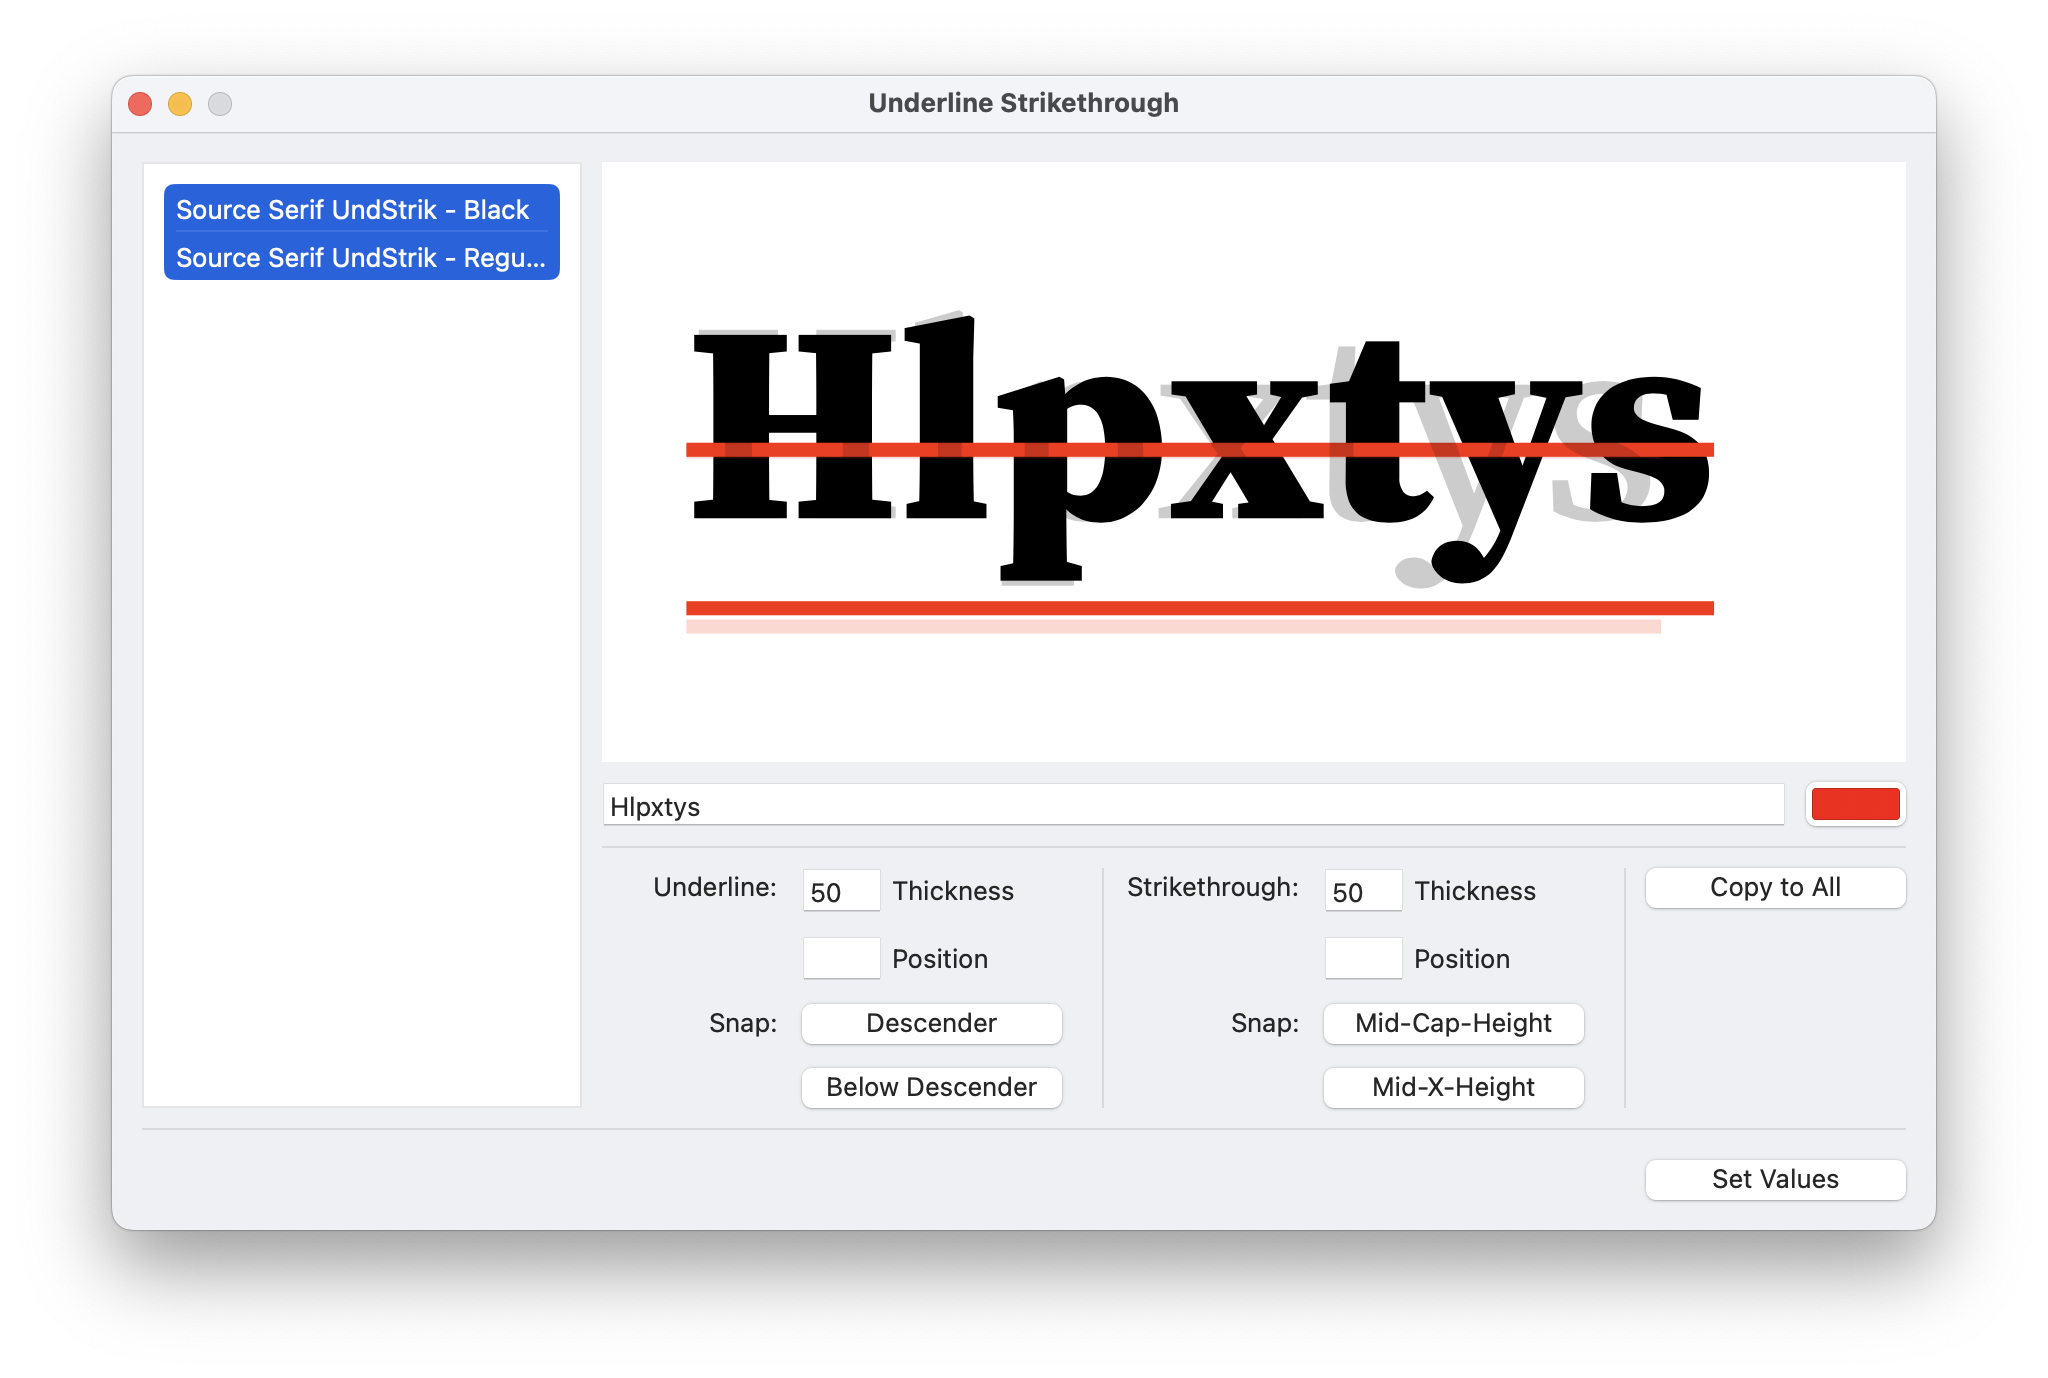
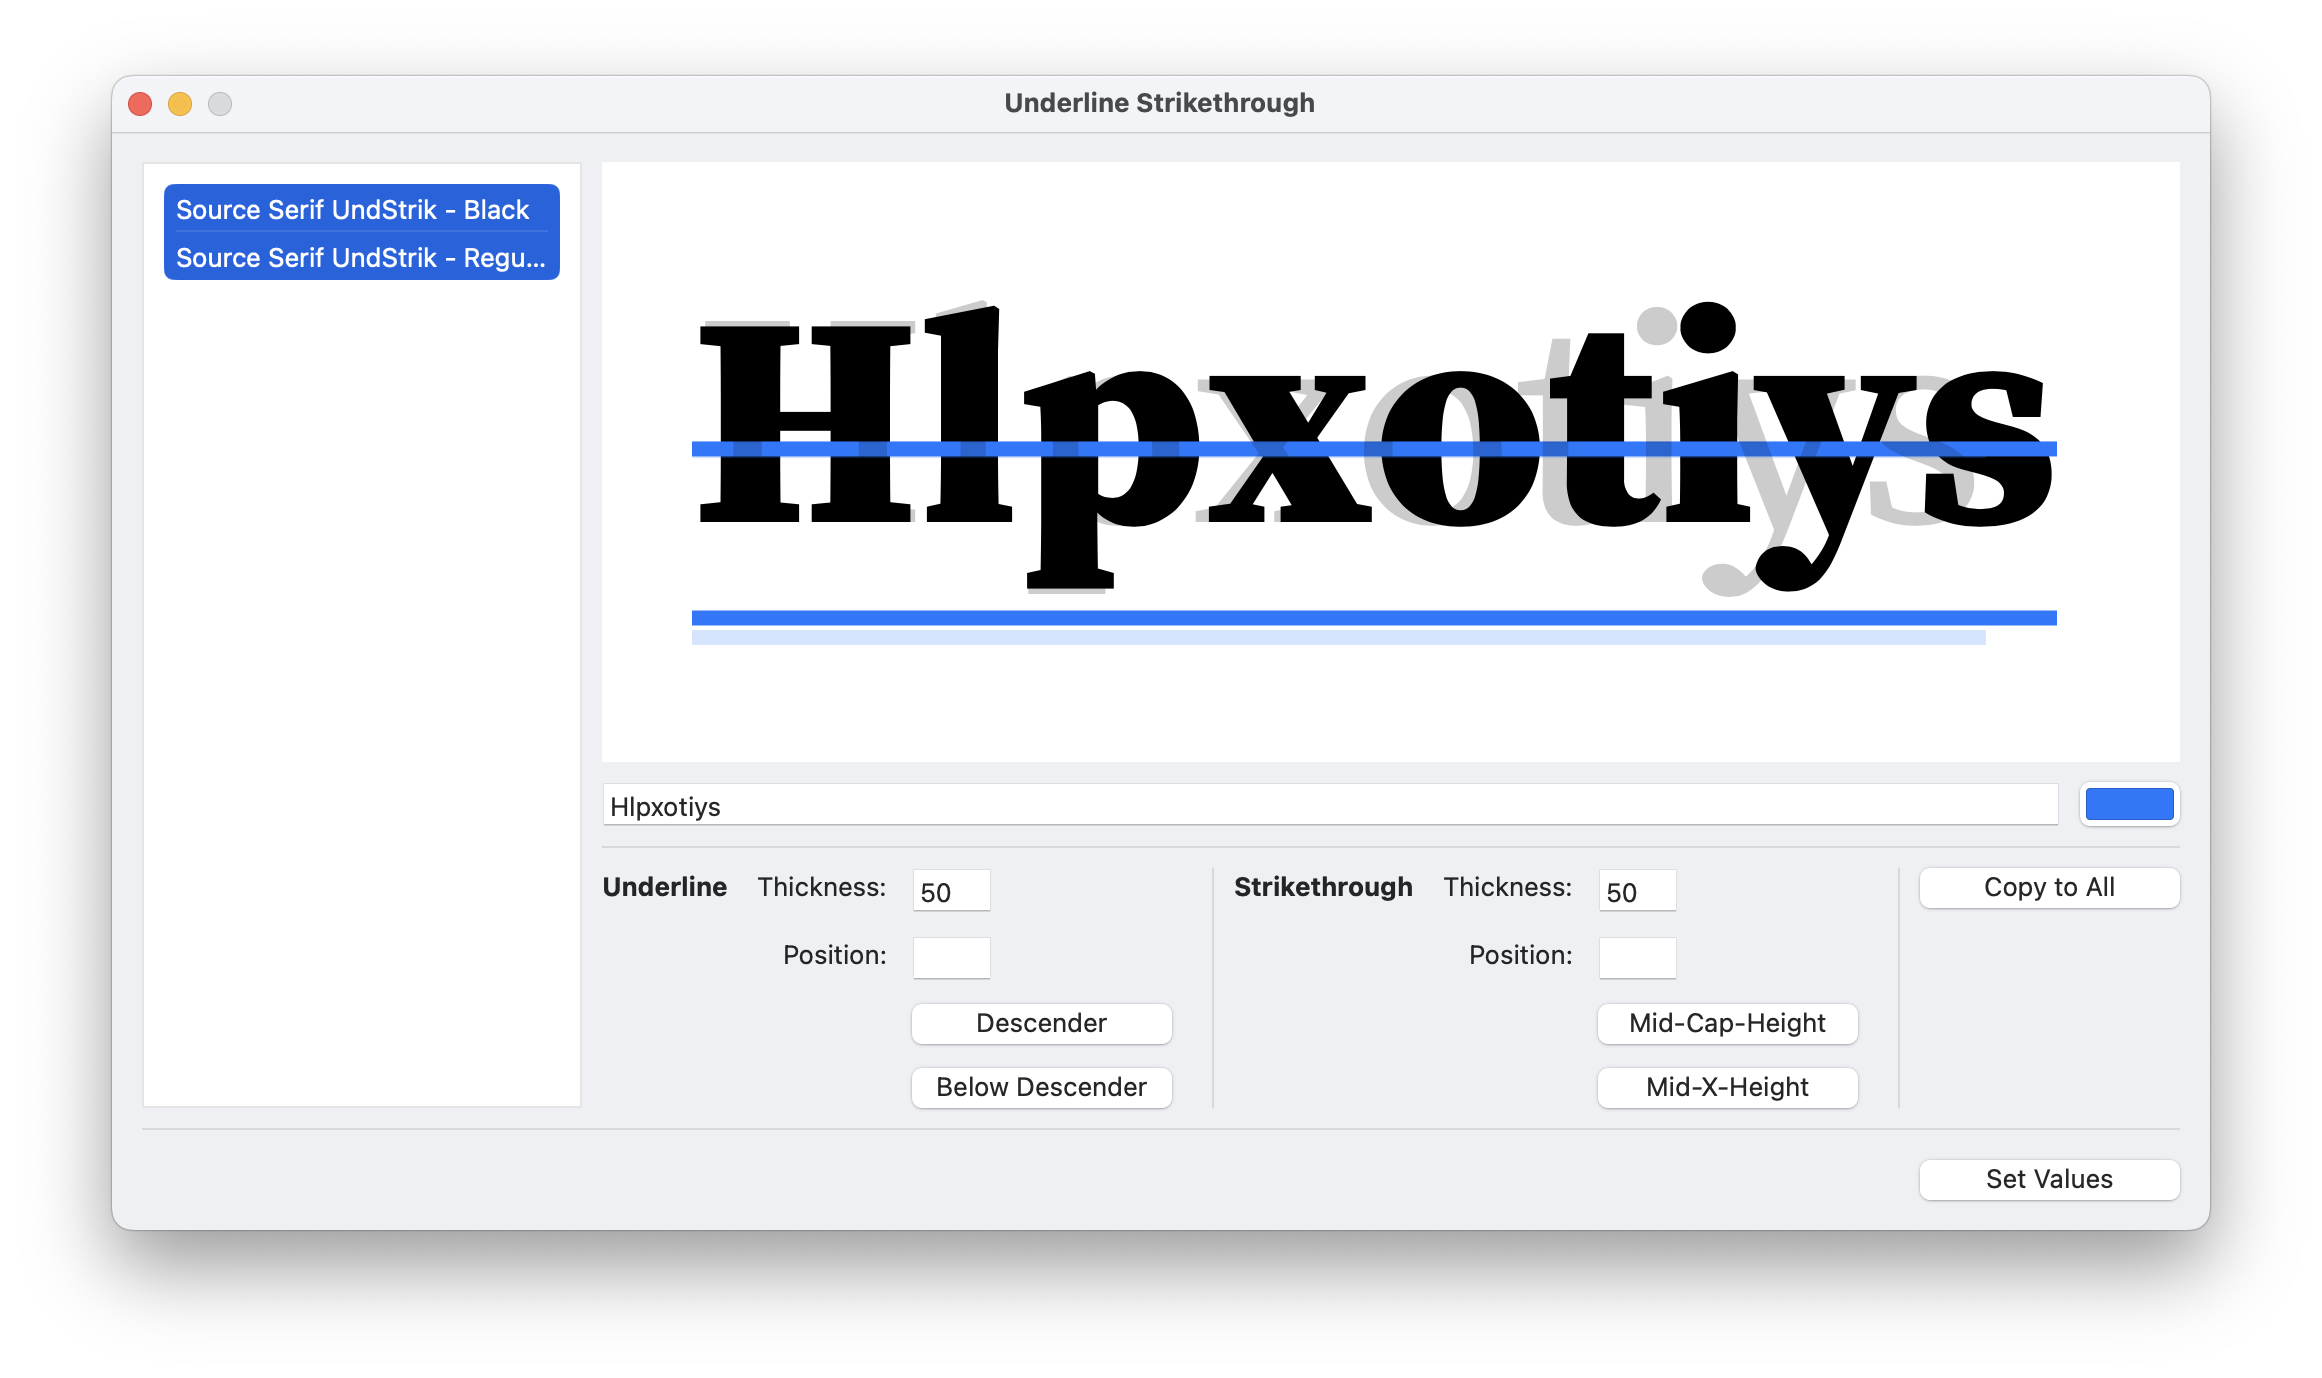
Update UI

diff --git a/Underline Strikethrough.roboFontExt/lib/Underline StrikeThrough.py b/Underline Strikethrough.roboFontExt/lib/Underline StrikeThrough.py
@@ -35,23 +35,31 @@ class UnderlineStrikethrough(Subscriber, ezui.WindowController):
         
         >> * HorizontalStack
         
+        >>> Underline:
         >>> * TwoColumnForm       @form1
-        >>>> : Underline:
+        
+        >>>> : Thickness:
         >>>> [_ _]                @ulThicknessText
+        
+        >>>> : Position:
         >>>> [_ _]                @ulPosText
         
-        >>>> : Snap:
+        >>>> : 
         >>>> (Descender)          @ulDescButton
         >>>> (Below Descender)    @ulBelowDescButton
         
         >>> ---
         
+        >>> Strikethrough:
         >>> * TwoColumnForm       @form2
-        >>>> : Strikethrough:
+        
+        >>>> : Thickness:
         >>>> [_ _]                @stThicknessText
+        
+        >>>> : Position:
         >>>> [_ _]                @stPosText
         
-        >>>> : Snap:
+        >>>> : 
         >>>> (Mid-Cap-Height)     @stMidCapButton
         >>>> (Mid-X-Height)       @stMidXButton
         
@@ -68,7 +76,7 @@ class UnderlineStrikethrough(Subscriber, ezui.WindowController):
         (Set Values)              @setAllButton
         """
         
-        titleWidth = 88
+        titleWidth = 75
         itemWidth = 140
         fieldWidth = 40
         buttonWidth = 130
@@ -100,22 +108,18 @@ class UnderlineStrikethrough(Subscriber, ezui.WindowController):
             ulThicknessText=dict(
                 valueType='integer',
                 valueWidth=fieldWidth,
-                trailingText="Thickness",
             ),
             ulPosText=dict(
                 valueType='integer',
                 valueWidth=fieldWidth,
-                trailingText="Position",
             ),
             stThicknessText=dict(
                 valueType='integer',
                 valueWidth=fieldWidth,
-                trailingText="Thickness",
             ),
             stPosText=dict(
                 valueType='integer',
                 valueWidth=fieldWidth,
-                trailingText="Position",
             ),
             ulDescButton=dict(
                 width=buttonWidth,
@@ -157,7 +161,7 @@ class UnderlineStrikethrough(Subscriber, ezui.WindowController):
         self.w.getItem('copiedLabel').show(False)
         self.w.getItem('setAllLabel').show(False)
         
-        self.testString = getExtensionDefault(extensionKey + '.testString', fallback="Hlpxtys")
+        self.testString = getExtensionDefault(extensionKey + '.testString', fallback="Hlpxotiys")
         self.w.getItem('testText').set(self.testString)
         
         self.lineColor = getDefault("spaceCenterGlyphColor") # Light mode by default
@@ -363,7 +367,7 @@ class UnderlineStrikethrough(Subscriber, ezui.WindowController):
                     r,g,b,a  = self.strokeColor
                     self.localStrokeColor = r,g,b,0.2
                 baseline = merzH / 2 - 200
-                viewScale = merzH / (viewFont.info.unitsPerEm + margin*2) * 0.75
+                viewScale = merzH / (viewFont.info.unitsPerEm + margin*2) * 0.8
             
                 cursor = margin
                 for char in self.testString:
